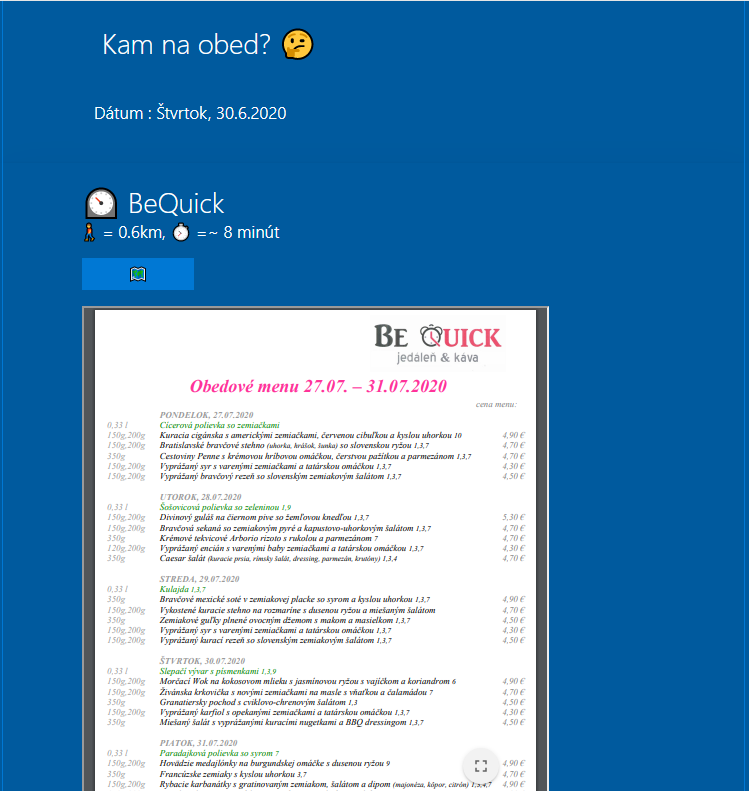
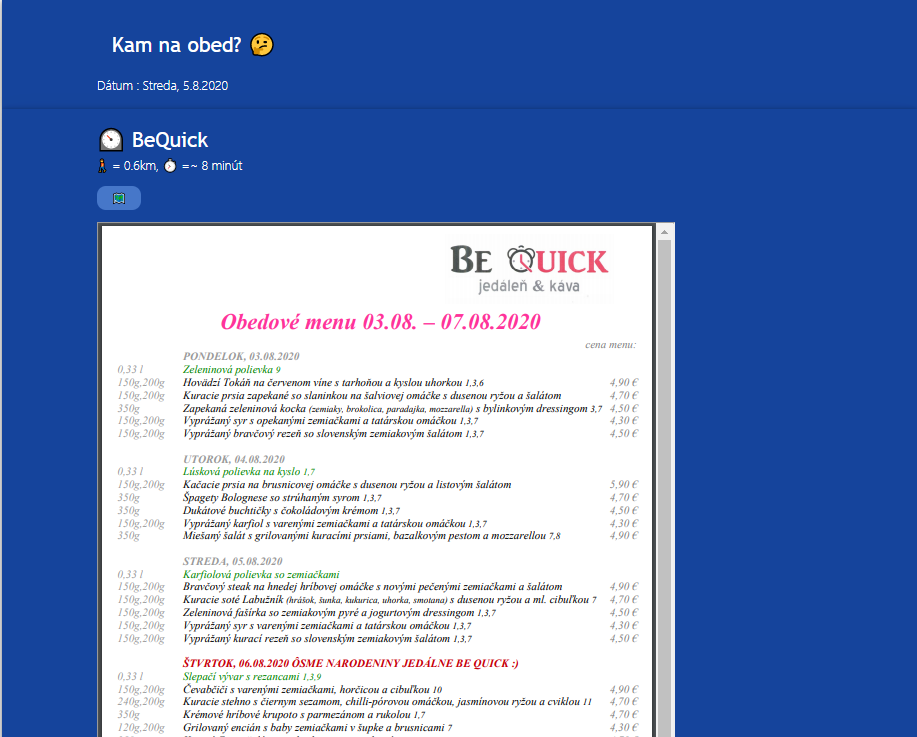
more fixes from first deploy

Changed region(s): [[0.0, 0.0, 1.0, 1.0], [0.9826, 0.0, 1.0, 0.0312]]

diff --git a/src/webparts/obedy/components/Restaurants/Rebecca.tsx b/src/webparts/obedy/components/Restaurants/Rebecca.tsx
@@ -51,7 +51,7 @@ export default class Rebecca extends React.Component<RebeccaProps, RebeccaState>
             <div className={styles.column}>
               {this.checkState() ? (
                 <div className={styles.rebeccaLoad}>
-                  <h4>Je potrebné pridať link na menu ✏</h4>
+                  <h4 style={{color:"white"}}>Je potrebné pridať link na menu ✏</h4>
                   <ReactLoading type={"cylon"} color={"white"} />
                 </div>
               ) : (

diff --git a/src/webparts/obedy/components/Obedy.tsx b/src/webparts/obedy/components/Obedy.tsx
@@ -27,7 +27,8 @@ export default class Obedy extends React.Component<IObedyProps, {}> {
     weekMap.set(7, 'Nedela');
 
     const dayNum = new Date(Date.now());
-    return weekMap.get(dayNum.getDay()) + ", " + dayNum.getDate() + "." + dayNum.getMonth() + "." + dayNum.getFullYear();
+    let month = dayNum.getMonth() + 1;
+    return weekMap.get(dayNum.getDay()) + ", " + dayNum.getDate() + "." +month + "." + dayNum.getFullYear();
   }
 
   public render(): React.ReactElement<IObedyProps> {

diff --git a/src/webparts/obedy/components/Restaurants/BeQuick.tsx b/src/webparts/obedy/components/Restaurants/BeQuick.tsx
@@ -44,7 +44,7 @@ export default class BeQuick extends React.Component {
             </div>
             <InfoBoard distance="0.6" link="https://goo.gl/maps/tXsTjYeBfm6vU9EX7" time="8" />
             <div className={styles.column}>
-              <iframe src={this.getUrlWithDates()} width="100%" height="1100px" scrolling="no">
+              <iframe src={this.getUrlWithDates()} width="100%" height="950px" scrolling="no">
               </iframe>
             </div>
           </div>

diff --git a/src/webparts/obedy/components/Restaurants/Yummy.tsx b/src/webparts/obedy/components/Restaurants/Yummy.tsx
@@ -44,7 +44,7 @@ export default class Yummy extends React.Component {
             <InfoBoard distance="Hned dole " link="" time="1" />
 
             <div className={styles.column}>
-              <iframe src={this.getUrlWithDates()} width="100%" height="1100px" scrolling="no">
+              <iframe src={this.getUrlWithDates()} width="100%" height="950px" scrolling="no">
               </iframe>
 
             </div>

diff --git a/src/webparts/obedy/components/Obedy.module.scss b/src/webparts/obedy/components/Obedy.module.scss
@@ -41,7 +41,7 @@ $base-color: #15449c;
     @include ms-font-xxl;
     @include ms-fontColor-white;
     display: inline-block;
-    margin: 0 0 0 150px;
+    // margin: 0 0 0 150px;
     font-family: "Trebuchet MS", Helvetica, sans-serif;
   }
 
